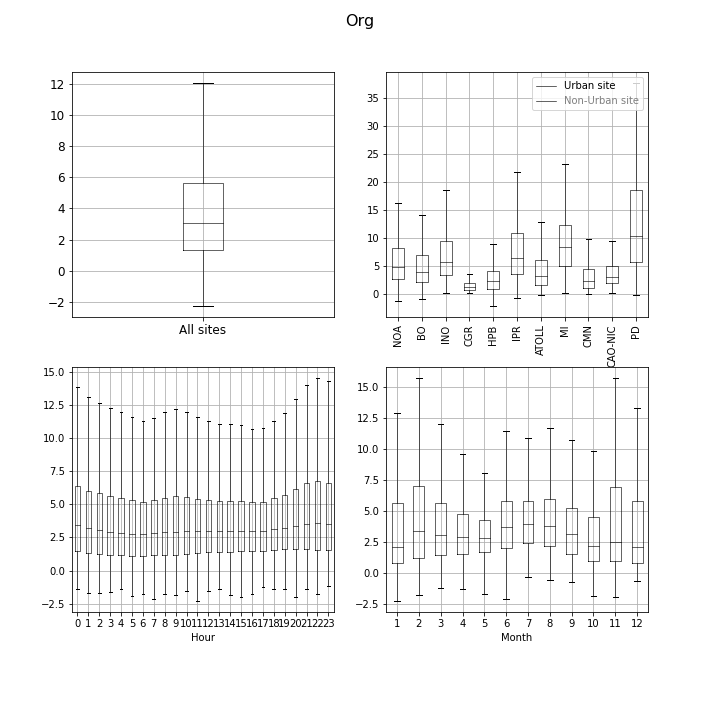
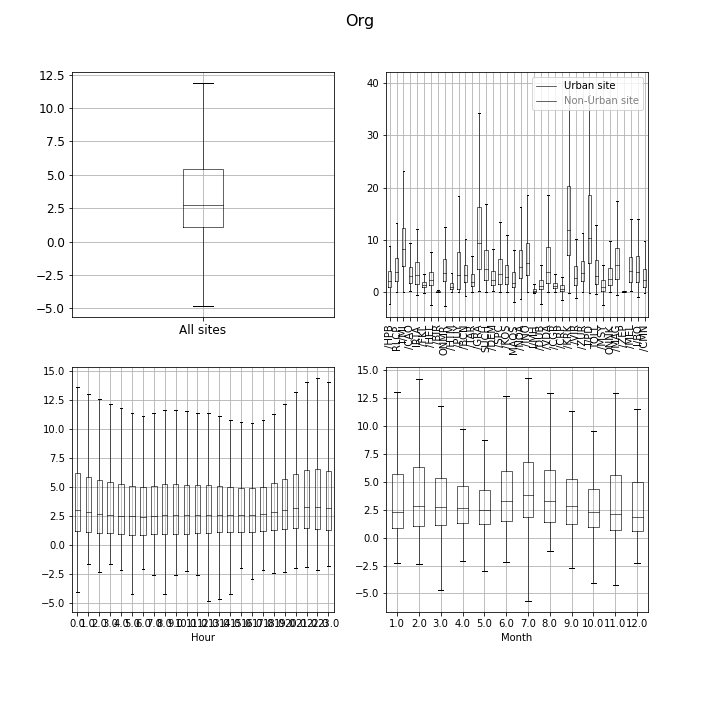
22/12/23
All files seem to be working except for BASQ and SMR.

Also, the plot generated does not have the labels which correspond to it.  But I will solve it shortly.

diff --git a/Data_compilation.py b/Data_compilation.py
@@ -17,12 +17,12 @@ from scipy import stats
 #%% paths definition
 path_py_mac="/Users/martaviagonzalez/Documents/Documents - MacBook Pro de MVIA/GitHub/All_Treatment"
 path_py_wdws ="C:/Users/maria/Documents/Marta Via/1. PhD/F. Scripts/Python Scripts"
-path_data_mac="/Users/martaviagonzalez/Documents/GitHub/EU_Overview/Data/All/"
+path_data_mac="/Users/martaviagonzalez/Documents/Documents - MacBook Pro de MVIA/IDAEA-CSIC/Overview/All/"
 path_data_wdws="C:/Users/maria/Documents/Marta Via/1. PhD/A. Data/Overview/All/"
 path_folder_mac="/Users/martaviagonzalez/Documents/GitHub/EU_Overview/Data/"
 path_folder_wdws = "C:/Users/maria/Documents/GitHub/EU_Overview/Data/"
 #
-mac_or_wdws = 'wdws' #Introduce OS here
+mac_or_wdws = 'mac' #Introduce OS here
 #
 if mac_or_wdws=='mac':
     path_py = path_py_mac
@@ -48,14 +48,18 @@ print(trt.x)
 os.chdir(path_data)
 all_files=glob.glob(path_data+'*Composition.txt')
 chem_comp=pd.DataFrame()
-chem_comp['Chemical_composition']=[pd.read_csv(i, sep='\t') for i in all_files]
-li_site_names = [j[-28:-25] for j in all_files]
+chem_comp['Chemical_composition']=[pd.read_csv(i, sep='\t', na_values='null', keep_default_na=True) for i in all_files]
+li_site_names = [j[-29:-25] for j in all_files]
+chem_comp.index = li_site_names
 #%% We import metadatafiles
 os.chdir(path_folder)
 metadata = pd.read_csv("Sites_metadata.txt", sep='\t')
 metadata=metadata.sort_values('Acronym')
 li_sites_names = metadata['Acronym']
-chem_comp.index = metadata['Acronym']
+#chem_comp.index = metadata['Acronym']
+#%%
+df1 = pd.DataFrame(chem_comp.iloc[1][0])
+
 #%%
 """ NR-PM1 COMPOUNDS! """
 #%% Average plots compound - Boxplots
@@ -64,19 +68,19 @@ comp='Org'
 li_dfs=[]
 chem_compound,chem_compound_t, chem_dt=pd.DataFrame(), pd.DataFrame(), pd.DataFrame()
 for i in range(0,len(chem_comp)):
-    print(metadata['Acronym'].iloc[i])
+    print(i, li_site_names[i])
     df1 = pd.DataFrame(chem_comp.iloc[i][0])
     df1.reset_index(inplace=True, drop=True)
     df1['datetime']=pd.to_datetime(df1['Time (UTC)'], dayfirst=True)
     chem_compound=pd.concat([chem_compound, df1[comp]], axis=1)
     chem_dt = pd.concat([chem_dt, pd.to_datetime(df1['Time (Local)'], dayfirst=True)], axis=0)
-    chem_compound_t=pd.concat([chem_compound_t, df1[comp]], axis=0)
+    chem_compound_t=pd.concat([chem_compound_t, pd.to_numeric(df1[comp])], axis=0)
     df1.index=df1.datetime
     li_dfs.append(df1)
 chem_compound.columns=chem_comp.index
 chem_compound_t.columns=['All sites']#metadata['Acronym']
 chem_dt.columns=['All times']
-#%%
+1#%%
 chem_dt['All_times'] = pd.to_datetime(chem_dt['All times'], dayfirst=True, utc=True)
 chem_compound_t['Hour'] = chem_dt['All_times'].dt.hour
 chem_compound_t['Month'] = chem_dt['All_times'].dt.month
@@ -86,7 +90,7 @@ non_urban=metadata['Acronym'].loc[mask_urban].to_list()
 chem_compound_2[non_urban]=np.nan
 #%%Plotting boxplots
 fig, axs=plt.subplots(figsize=(10,10),nrows=2, ncols=2)
-chem_compound_t.boxplot(column=['All sites'],ax=axs[0,0], fontsize=12,boxprops=bp, medianprops=mdp,meanprops=mp, whiskerprops=wp, showfliers=False)
+chem_compound_t.boxplot(column = 'All sites', ax=axs[0,0], fontsize=12,boxprops=bp, medianprops=mdp,meanprops=mp, whiskerprops=wp, showfliers=False)
 chem_compound.boxplot(ax=axs[0,1], boxprops=bp, fontsize=10, medianprops=mdp,meanprops=mp, whiskerprops=wp, showfliers=False, rot=90)
 # chem_compound_2.boxplot(ax=axs[0,1], boxprops=bp_grey, fontsize=10, medianprops=mdp,meanprops=mp, whiskerprops=wp, showfliers=False, rot=90)
 chem_compound_t.boxplot(by='Hour', column='All sites', fontsize=10,  ax=axs[1,0], boxprops=bp, medianprops=mdp,meanprops=mp, whiskerprops=wp, showfliers=False)
@@ -97,6 +101,10 @@ fig.suptitle(comp, fontsize=16)
 axs[0,1].legend(['Urban site', 'Non-Urban site'], loc='upper right', labelcolor=['k', 'grey'])
 plt.savefig('Boxplots_'+comp+'.png')
 li_dfs=[j.drop('datetime', inplace=True, axis=1) for j in li_dfs]
+#%%
+a=pd.DataFrame()
+a['All']=chem_compound_t['All sites'].astype(float)
+a.boxplot(column='All',  fontsize=12,boxprops=bp, medianprops=mdp,meanprops=mp, whiskerprops=wp, showfliers=False)
 
 #%% Filtering process
 nr_comp=['Org', 'SO4', 'NO3', 'NH4', 'Chl']
